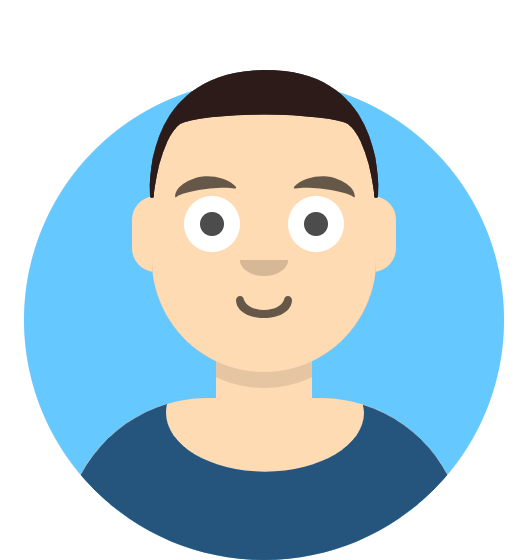
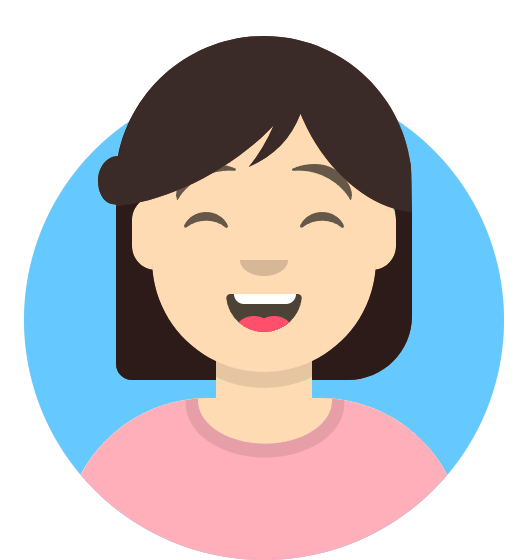
fix: fix gender misassignment and animation bug (#5)
- Resolve Yano incorrect gender
- Correct fadeOutUpwards animation bug causing improper behavior in moblie screen
- Adjust font size for "關於AP程式" in homepage

diff --git a/src/app/page.tsx b/src/app/page.tsx
@@ -24,7 +24,7 @@ export default function Home() {
     options: {
       root: null,
       rootMargin: "0px",
-      threshold: 0.1,
+      threshold: 0.0,
     },
   });
 
@@ -51,9 +51,7 @@ export default function Home() {
       >
         <div className="max-w-4xl mx-auto h-2/7 p-8 bg-white rounded-lg shadow-md border border-gray-200 mt-10 ">
           <div className="flex flex-col items-center text-center pb-8">
-            <h1 className="font-taipei-bold text-gray-800 my-4 text-3xl">
-              關於AP程式
-            </h1>
+            <h1 className="font-taipei-bold  my-4 text-3xl">關於AP程式</h1>
             <p className="text-gray-600 font-taipei text-left">
               &nbsp; &nbsp; &nbsp; &nbsp;我們致力於精英化教育，旨在幫助學生在
               <strong>&quot;最短時間&quot;</strong>

diff --git a/src/components/ListWithAvatar/index.tsx b/src/components/ListWithAvatar/index.tsx
@@ -20,7 +20,7 @@ export function ListWithAvatar() {
       placeholder={undefined}
       className="w-full max-w-4xl mx-auto my-10 p-5 md:p-10 border border-gray-200 rounded-lg relative"
     >
-      <h1 className="font-taipei-bold text-center m-10 text-3xl font-semibold">
+      <h1 className="font-taipei-bold text-center m-10 text-3xl">
         專業師資團隊
       </h1>
 
